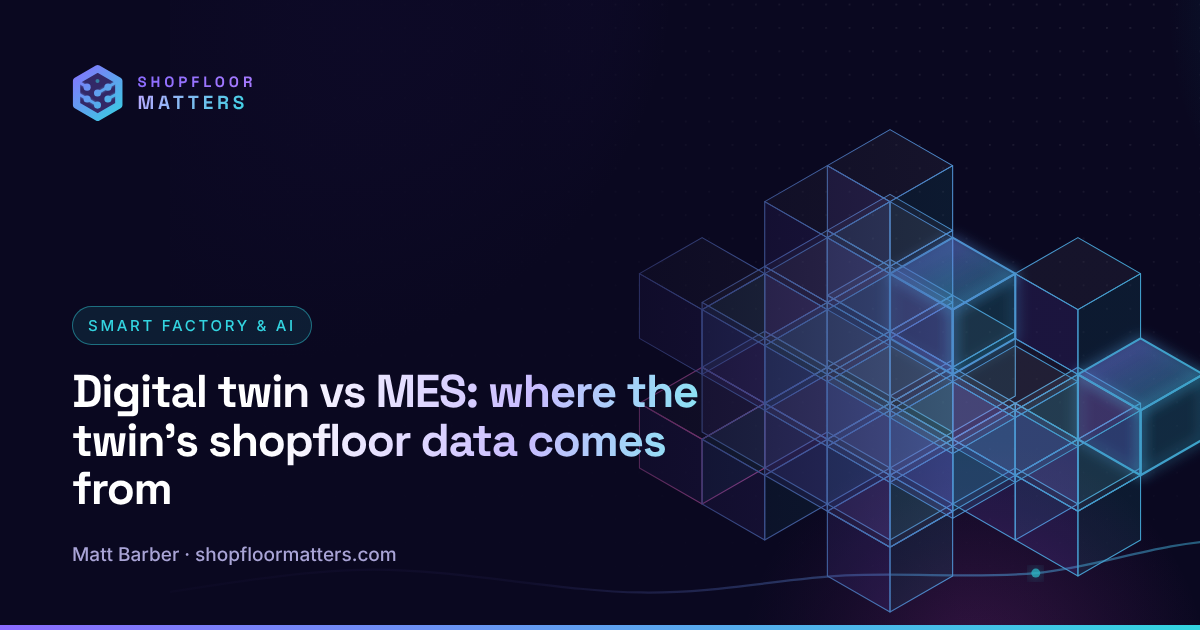
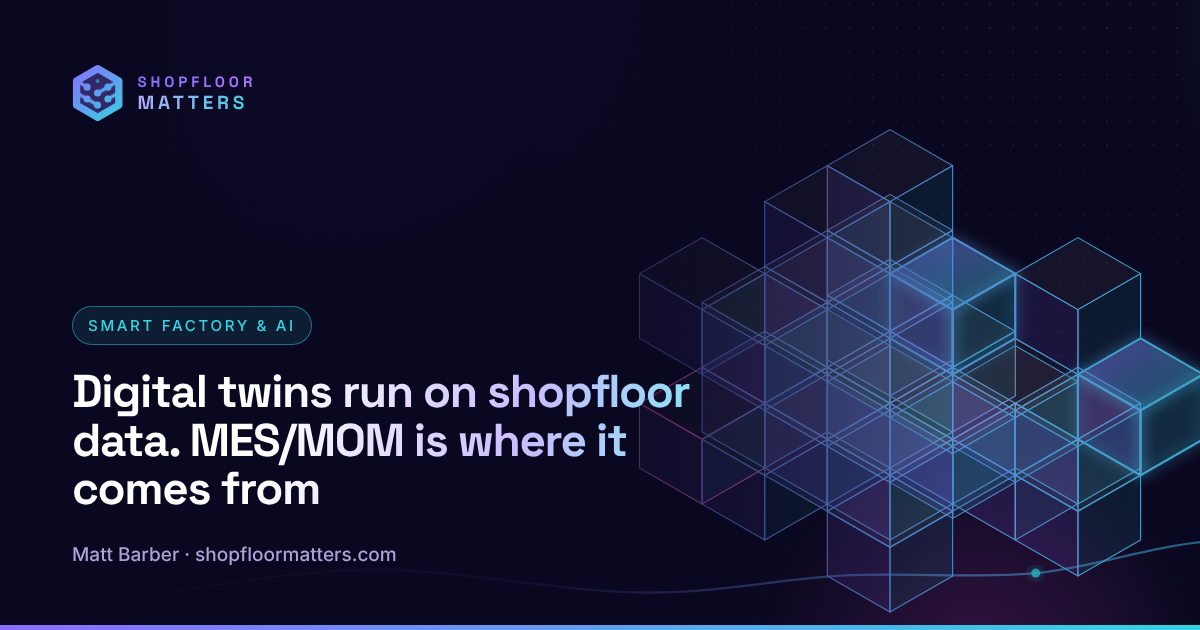
Keep vs titles for genuine comparisons only; restore 'and' titles for complementary systems
Claude-Session: https://claude.ai/code/session_01Y4SNSUs71veJ37BenGhXFE

Changed region(s): [[0.0617, 0.573, 0.5858, 0.8143]]

diff --git a/scripts/build.py b/scripts/build.py
@@ -485,7 +485,7 @@ def write_llms(posts, paths, glossary, tools=(), audiences=()):
            *[f"- [{g['title']}]({g['canonical']}): {g['summary'] or g['description']}" for g in posts if g.get("guide")],
            f"- [Learning paths]({SITE}/paths/): guided routes through the articles, in order",
            f"- [FAQ]({SITE}/faq/): short answers to common questions, each linked to the full article",
-           f"- [MES compared]({SITE}/compare/): straight answers to MES vs ERP, MOM, MRP, SCADA, DCS, UNS, low-code and other comparisons",
+           f"- [MES compared]({SITE}/compare/): straight answers to MES vs ERP, MOM, MRP, SCADA, historian, IIoT, UNS, low-code and other comparisons",
            f"- [Glossary]({SITE}/glossary/): definitions of MES, MOM, OEE, ISA-95, UNS and other shopfloor terms",
            f"- [Tools]({SITE}/tools/): free, vendor-neutral tools and templates",
            f"- [About Matt Barber]({SITE}/about): background and credentials",
@@ -860,7 +860,7 @@ def build(base, relative=False, include_scheduled=False):
         compare["groups"].append({"name": g["name"], "posts": items})
     cmp_items = [x for g in compare["groups"] for x in g["posts"]]
     write("compare/index.html", "compare.html", active="compare", seo_title="MES compared: MES vs ERP, MOM, SCADA, UNS and more | Shopfloor Matters",
-          description="Straight answers to the most common MES comparisons: MES vs ERP, MOM, MRP, SCADA, DCS, historian, IIoT, UNS, low-code and more, each linked to the full article.",
+          description="Straight answers to the most common MES comparisons: MES vs ERP, MOM, MRP, SCADA, historian, IIoT, UNS, low-code and more, each linked to the full article.",
           canonical=f"{SITE}/compare/", og_image=f"{SITE}/images/og/page-education.png", compare=compare,
           jsonld=[jsonld({"@context": "https://schema.org", "@type": "CollectionPage", "name": "MES compared", "url": f"{SITE}/compare/",
                           "author": person, "inLanguage": "en-GB",

diff --git a/content/posts/dcs-and-mes.md b/content/posts/dcs-and-mes.md
@@ -1,6 +1,6 @@
 ---
-title: "DCS vs MES: controlling the process vs managing the operation"
-short: "DCS vs MES"
+title: "DCS and MES: where process control ends and operations management begins"
+short: "DCS and MES"
 description: "A DCS controls continuous and batch processes in real time. MES/MOM manages orders, materials, quality and records around them. How they differ in process plants, and where batch control and electronic batch records fit."
 published: 2026-10-23
 category: education
@@ -55,6 +55,6 @@ Some plants stretch the DCS to do more of this through custom code. It can work,
 
 If you run a process plant, you almost certainly need a DCS, or a PLC and SCADA combination doing the same job. The question is whether you also need the layer above it. If batch records are still assembled on paper and materials are tracked in spreadsheets, the answer is probably yes.
 
-I cover the related SCADA question in [SCADA vs MES](/post/scada-vs-mes), and the batch standard in [ISA-95 vs ISA-88](/post/isa-95-vs-isa-88).
+I cover the related SCADA question in [SCADA vs MES](/post/scada-vs-mes), and the batch standard in [ISA-88 and ISA-95](/post/isa-88-and-isa-95).
 
 How much of your batch record is still assembled by hand after the batch has finished?

diff --git a/content/posts/isa-88-and-isa-95.md b/content/posts/isa-88-and-isa-95.md
@@ -1,6 +1,6 @@
 ---
-title: "ISA-95 vs ISA-88: which standard covers what"
-short: "ISA-95 vs ISA-88"
+title: "ISA-88 and ISA-95: how the two standards fit together"
+short: "ISA-88 and ISA-95"
 description: "ISA-88 standardises batch control: recipes, equipment and procedures. ISA-95 standardises how manufacturing operations connect to the business. What each covers, where they meet, and which one you need to know."
 published: 2026-10-23
 category: education
@@ -61,6 +61,6 @@ The two standards were designed to fit together, and they overlap in a few place
 - **Anyone integrating ERP and MES/MOM:** start with ISA-95. It gives everyone a common vocabulary, which saves weeks of arguments about what "batch" and "lot" mean.
 - **Vendors and integrators serving process industries:** both, because your customers will expect you to speak each one.
 
-For the control side of the boundary, see [DCS vs MES](/post/dcs-vs-mes).
+For the control side of the boundary, see [DCS and MES](/post/dcs-and-mes).
 
 Do your control engineers and your MES team use the same names for the same equipment?

diff --git a/content/posts/mes-and-digital-twins.md b/content/posts/mes-and-digital-twins.md
@@ -1,6 +1,6 @@
 ---
-title: "Digital twin vs MES: where the twin's shopfloor data comes from"
-short: "Digital twin vs MES"
+title: "Digital twins run on shopfloor data. MES/MOM is where it comes from"
+short: "MES/MOM and digital twins"
 description: "A digital twin is only as good as the data feeding it. MES/MOM is the key source of real-time, contextualised shopfloor data that keeps a twin honest."
 published: 2026-08-25
 updated: 2026-10-20

diff --git a/content/posts/lims-and-mes.md b/content/posts/lims-and-mes.md
@@ -1,6 +1,6 @@
 ---
-title: "LIMS vs MES: getting lab results to the line before the batch moves on"
-short: "LIMS vs MES"
+title: "LIMS and MES: getting lab results to the line before the batch moves on"
+short: "LIMS and MES"
 description: "In process industries, LIMS runs the lab and MES/MOM runs the batch. How sampling, results and release flow between them, with ERP holding batch status."
 published: 2026-09-22
 category: education

diff --git a/content/posts/eam-cmms-and-mes.md b/content/posts/eam-cmms-and-mes.md
@@ -1,6 +1,6 @@
 ---
-title: "CMMS vs EAM vs MES: who owns the maintenance work order?"
-short: "CMMS vs EAM vs MES"
+title: "EAM, CMMS and MES: who owns the maintenance work order?"
+short: "EAM, CMMS and MES"
 description: "Maintenance data sits in EAM, CMMS, ERP and MES/MOM. Where each one's job starts and stops, and the integration options that keep downtime data consistent."
 published: 2026-09-17
 category: education

diff --git a/content/posts/plm-erp-mes-digital-thread.md b/content/posts/plm-erp-mes-digital-thread.md
@@ -1,6 +1,6 @@
 ---
-title: "PLM vs ERP vs MES: where the digital thread actually runs"
-short: "PLM vs ERP vs MES"
+title: "PLM, ERP and MES: where the digital thread actually runs"
+short: "PLM, ERP and MES"
 description: "How product data gets from PLM to the shopfloor. Why ERP usually sits in the middle, when a direct PLM to MES link makes sense, and how to choose."
 published: 2026-09-01
 category: education

diff --git a/content/posts/qms-and-mes-quality.md b/content/posts/qms-and-mes-quality.md
@@ -1,6 +1,6 @@
 ---
-title: "QMS vs MES: who owns quality, and how to close the loop"
-short: "QMS vs MES"
+title: "QMS and MES: closing the quality loop"
+short: "QMS and MES quality"
 description: "Enterprise QMS runs CAPA, audits and complaints. MES/MOM runs in-process quality. How they divide the work, where ERP fits, and how to connect them."
 published: 2026-09-15
 category: education
